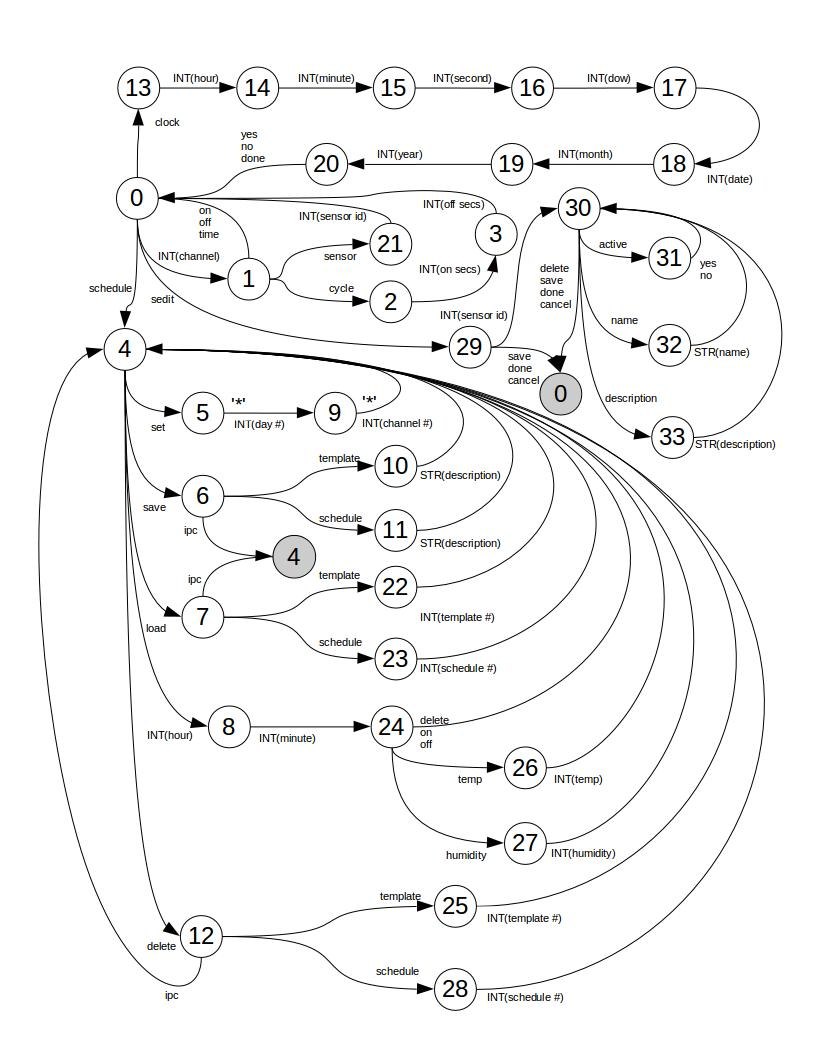
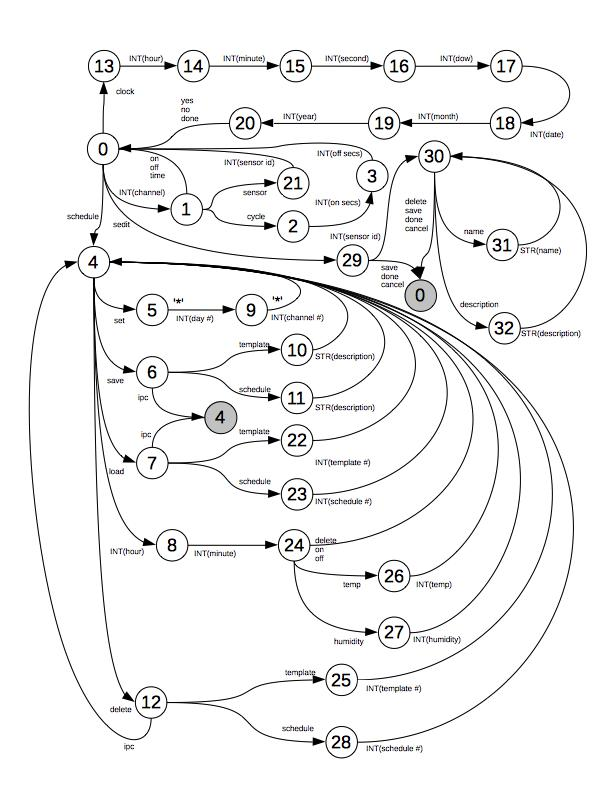
investigating buffer overflow on input strings >30 char

diff --git a/BBB/lib-sources/cmd_fsm.c b/BBB/lib-sources/cmd_fsm.c
@@ -131,10 +131,10 @@ int cmd_new_state[_CMD_TOKENS][_CMD_STATES] = {
 	/* 17  sensor      */  { 0, 21,  2,  3,  4,  5,  6,  7,  8,  9, 10, 11, 12, 13, 14, 15, 16, 17, 18, 19, 20, 21,  0,  0, 24, 25, 26, 27, 28, 29, 30, 31, 32, 33, 34},
 	/* 18  cycle       */  { 0,  2,  2,  3,  4,  5,  6,  7,  8,  9, 10, 11, 12, 13, 14, 15, 16, 17, 18, 19, 20, 21,  0,  0, 24, 25, 26, 27, 28, 29, 30, 31, 32, 33, 34},
 	/* 19  ipc         */  { 0,  1,  2,  3,  4,  5,  4,  4,  8,  9, 10, 11,  4, 13, 14, 15, 16, 17, 18, 19, 20, 21,  0,  0, 24, 25, 26, 27, 28, 29, 30, 31, 32, 33, 34},
-	/* 20  name        */  { 0,  1,  2,  3,  4,  5,  6,  7,  8,  9, 10, 11, 12, 13, 14, 15, 16, 17, 18, 19, 20, 21,  0,  0, 24, 25, 26, 27, 28, 29, 30, 33, 32, 33, 34},
+	/* 20  name        */  { 0,  1,  2,  3,  4,  5,  6,  7,  8,  9, 10, 11, 12, 13, 14, 15, 16, 17, 18, 19, 20, 21,  0,  0, 24, 25, 26, 27, 28, 29, 31, 33, 32, 33, 34},
 	/* 21  save        */  { 0,  1,  2,  3,  6,  5,  4,  5,  8,  9, 10, 11, 12, 13, 14, 15, 16, 17, 18, 19, 20, 21, 22, 23, 24, 25, 26, 27, 28, 29, 30, 31, 32, 33, 34},
 	/* 22  template    */  { 0,  1,  2,  3,  4,  5, 10, 22,  8,  9, 10, 11, 25, 13, 14, 15, 16, 17, 18, 19, 20, 21,  0,  0, 24, 25, 26, 27, 28, 29, 30, 31, 32, 33, 34},
-	/* 23  description */  { 0,  1,  2,  3,  4,  5,  6,  7,  8,  9, 10, 11, 12, 13, 14, 15, 16, 17, 18, 19, 20, 21,  0,  0, 24, 25, 26, 27, 28, 29, 30, 34, 32, 33, 34},
+	/* 23  description */  { 0,  1,  2,  3,  4,  5,  6,  7,  8,  9, 10, 11, 12, 13, 14, 15, 16, 17, 18, 19, 20, 21,  0,  0, 24, 25, 26, 27, 28, 29, 32, 34, 32, 33, 34},
 	/* 24  load        */  { 0,  1,  2,  3,  7,  5,  6,  7,  8,  9, 10, 11, 12, 13, 14, 15, 16, 17, 18, 19, 20, 21,  0,  0, 24, 25, 26, 27, 28, 29, 30, 31, 32, 33, 34},
 	/* 25  set         */  { 0,  1,  2,  3,  5,  5,  6,  7,  8,  9, 10, 11, 12, 13, 14, 15, 16, 17, 18, 19, 20, 21, 22, 23, 24, 25, 26, 27, 28, 29, 30, 31, 32, 33, 34},
 	/* 26  q           */  { 0,  1,  0,  0,  0,  0,  0,  0,  8,  9, 10, 11, 12, 13, 14, 15, 16, 17, 18, 19, 20, 21, 22, 23, 24, 25, 26, 27, 28, 29, 30, 31, 32, 33, 34},
@@ -146,8 +146,8 @@ int cmd_new_state[_CMD_TOKENS][_CMD_STATES] = {
 	/* 32  wsch        */  { 0,  1,  2,  3,  4,  5,  6,  7,  8,  9, 10, 11, 12, 13, 14, 15, 16, 17, 18, 19, 20, 21, 22, 23, 24, 25, 26, 27, 28, 29, 30, 31, 32, 33, 34},
 	/* 33  slib        */  { 0,  1,  2,  3,  4,  5,  6,  7,  8,  9, 10, 11, 12, 13, 14, 15, 16, 17, 18, 19, 20, 21, 22, 23, 24, 25, 26, 27, 28, 29, 30, 31, 32, 33, 34},
 	/* 34  tlib        */  { 0,  1,  2,  3,  4,  5,  6,  7,  8,  9, 10, 11, 12, 13, 14, 15, 16, 17, 18, 19, 20, 21, 22, 23, 24, 25, 26, 27, 28, 29, 30, 31, 32, 33, 34},
-	/* 35  INT         */  { 1,  1,  3,  0,  8,  9,  6, 21, 24,  4, 10, 11, 12, 14, 15, 16, 17, 18, 19, 20,  0,  0,  4,  4, 24,  4,  4,  4, 28, 29, 31, 31, 32, 33, 34},
-	/* 36  STR         */  { 0,  0,  2,  3,  4,  5,  6,  7,  8,  9,  4,  4, 12, 13,  0,  0,  0,  0,  0,  0,  0, 21,  0,  0, 24, 25, 26, 27, 28, 29, 30, 31, 32, 33, 34},
+	/* 35  INT         */  { 1,  1,  3,  0,  8,  9,  6, 21, 24,  4, 10, 11, 12, 14, 15, 16, 17, 18, 19, 20,  0,  0,  4,  4, 24,  4,  4,  4, 28, 30, 31, 31, 32, 33, 34},
+	/* 36  STR         */  { 0,  0,  2,  3,  4,  5,  6,  7,  8,  9,  4,  4, 12, 13,  0,  0,  0,  0,  0,  0,  0, 21,  0,  0, 24, 25, 26, 27, 28, 29, 30, 30, 30, 33, 34},
 	/* 37  OTHER       */  { 0,  1,  2,  3,  4,  5,  6,  7,  8,  9, 10, 11, 12, 13, 14, 15, 16,  0,  0,  0,  0, 21,  0,  0, 24, 25, 26, 27, 28, 29, 30, 31, 32, 33, 34},
 	/* 38  slist       */  { 0,  1,  2,  3,  4,  5,  6,  7,  8,  9, 10, 11, 12, 13, 14, 15, 16, 17, 18, 19, 20, 21, 22, 23, 24, 25, 26, 27, 28, 29, 30, 32, 32, 33, 34}
 
@@ -223,6 +223,10 @@ int c_65(_CMD_FSM_CB *); /* display current sensor values */
 int c_66(_CMD_FSM_CB *); /* display system configuration */
 int c_67(_CMD_FSM_CB *); /* set sensor id prompt */
 int c_68(_CMD_FSM_CB *); /* set up working sensor buffer */
+int c_69(_CMD_FSM_CB *); /* set working sensor name */
+int c_70(_CMD_FSM_CB *); /* set working sensor description */
+
+
 
 
 /* cmd processor action table - initialized with fsm functions */
@@ -249,10 +253,10 @@ CMD_ACTION_PTR cmd_action[_CMD_TOKENS][_CMD_STATES] = {
 	/* 17  sensor      */  { c_7, c_12,  c_7,  c_7,  c_7,  c_7,  c_7,  c_7,  c_7,  c_7,  c_7,  c_7,  c_7,  c_7,  c_7,  c_7,  c_7,  c_7,  c_7,  c_7,  c_7,  c_7,  c_7,  c_7,  c_7,  c_7,  c_7,  c_7,  c_7,  c_7,  c_7,  c_7,  c_7,  c_7,  c_7},
 	/* 18  cycle       */  { c_7, c_13,  c_7,  c_7,  c_7,  c_7,  c_7,  c_7,  c_7,  c_7,  c_7,  c_7,  c_7,  c_7,  c_7,  c_7,  c_7,  c_7,  c_7,  c_7,  c_7,  c_7,  c_7,  c_7,  c_7,  c_7,  c_7,  c_7,  c_7,  c_7,  c_7,  c_7,  c_7,  c_7,  c_7},
 	/* 19  ipc         */  { c_7,  c_7,  c_7,  c_7,  c_7,  c_7, c_25, c_19,  c_7,  c_7,  c_7,  c_7,  c_7,  c_7,  c_7,  c_7,  c_7,  c_7,  c_7,  c_7,  c_7,  c_7,  c_7,  c_7,  c_7,  c_7,  c_7,  c_7,  c_7,  c_7,  c_7,  c_7,  c_7,  c_7,  c_7},
-	/* 20  name        */  { c_7,  c_7,  c_7,  c_7,  c_7,  c_7,  c_7,  c_7,  c_7,  c_7,  c_7,  c_7,  c_7,  c_7,  c_7,  c_7,  c_7,  c_7,  c_7,  c_7,  c_7,  c_7,  c_7,  c_7,  c_7,  c_7,  c_7,  c_7,  c_7,  c_7,  c_7,  c_7,  c_7,  c_7,  c_7},  //
+	/* 20  name        */  { c_7,  c_7,  c_7,  c_7,  c_7,  c_7,  c_7,  c_7,  c_7,  c_7,  c_7,  c_7,  c_7,  c_7,  c_7,  c_7,  c_7,  c_7,  c_7,  c_7,  c_7,  c_7,  c_7,  c_7,  c_7,  c_7,  c_7,  c_7,  c_7,  c_7,  c_0,  c_7,  c_7,  c_7,  c_7},  //
 	/* 21  save        */  { c_7,  c_7,  c_7,  c_7, c_50,  c_7,  c_7,  c_7,  c_7,  c_7,  c_7,  c_7,  c_7,  c_7,  c_7,  c_7,  c_7,  c_7,  c_7,  c_7,  c_7,  c_7,  c_7,  c_7,  c_7,  c_7,  c_7,  c_7,  c_7,  c_7,  c_7,  c_7,  c_7,  c_7,  c_7},
 	/* 22  template    */  { c_7,  c_7,  c_7,  c_7,  c_7,  c_7, c_53, c_63,  c_7,  c_7,  c_7,  c_7, c_63,  c_7,  c_7,  c_7,  c_7,  c_7,  c_7,  c_7,  c_7,  c_7,  c_7,  c_7,  c_7,  c_7,  c_7,  c_7,  c_7,  c_7,  c_7,  c_7,  c_7,  c_7,  c_7},
-	/* 23  description */  { c_7,  c_7,  c_7,  c_7,  c_7,  c_7,  c_7,  c_7,  c_7,  c_7,  c_7,  c_7,  c_7,  c_7,  c_7,  c_7,  c_7,  c_7,  c_7,  c_7,  c_7,  c_7,  c_7,  c_7,  c_7,  c_7,  c_7,  c_7,  c_7,  c_7,  c_7,  c_7,  c_7,  c_7,  c_7},  //
+	/* 23  description */  { c_7,  c_7,  c_7,  c_7,  c_7,  c_7,  c_7,  c_7,  c_7,  c_7,  c_7,  c_7,  c_7,  c_7,  c_7,  c_7,  c_7,  c_7,  c_7,  c_7,  c_7,  c_7,  c_7,  c_7,  c_7,  c_7,  c_7,  c_7,  c_7,  c_7,  c_0,  c_7,  c_7,  c_7,  c_7},  //
 	/* 24  load        */  { c_7,  c_7,  c_7,  c_7, c_50,  c_7,  c_7,  c_7,  c_7,  c_7,  c_7,  c_7,  c_7,  c_7,  c_7,  c_7,  c_7,  c_7,  c_7,  c_7,  c_7,  c_7,  c_7,  c_7,  c_7,  c_7,  c_7,  c_7,  c_7,  c_7,  c_7,  c_7,  c_7,  c_7,  c_7},
 	/* 25  set         */  { c_7,  c_7,  c_1,  c_1, c_59,  c_1,  c_1,  c_1,  c_7,  c_1,  c_1,  c_1,  c_1,  c_7,  c_1,  c_1,  c_1,  c_1,  c_1,  c_1,  c_1,  c_1,  c_7,  c_7,  c_7,  c_7,  c_7,  c_7,  c_7,  c_7,  c_7,  c_7,  c_7,  c_7,  c_7},
 	/* 26  q           */  { c_3,  c_3,  c_3,  c_3,  c_3,  c_3,  c_3,  c_3,  c_3,  c_3,  c_3,  c_3,  c_3,  c_3,  c_3,  c_3,  c_3,  c_3,  c_3,  c_3,  c_3,  c_3,  c_3,  c_3,  c_3,  c_3,  c_3,  c_3,  c_3,  c_3,  c_3,  c_3,  c_3,  c_3,  c_3},
@@ -264,8 +268,8 @@ CMD_ACTION_PTR cmd_action[_CMD_TOKENS][_CMD_STATES] = {
 	/* 32  wsch        */  {c_58, c_58, c_58, c_58, c_58, c_58, c_58, c_58, c_58, c_58, c_58, c_58, c_58, c_58, c_58, c_58, c_58, c_58, c_58, c_58, c_58, c_58, c_58, c_58, c_58, c_58, c_58, c_58, c_58,  c_7,  c_7,  c_7,  c_7,  c_7,  c_7},
 	/* 33  slib        */  {c_56, c_56, c_56, c_56, c_56, c_56, c_56, c_56, c_56, c_56, c_56, c_56, c_56, c_56, c_56, c_56, c_56, c_56, c_56, c_56, c_56, c_56, c_56, c_56, c_56, c_56, c_56, c_56, c_56,  c_7,  c_7,  c_7,  c_7,  c_7,  c_7},
 	/* 34  tlib        */  {c_55, c_55, c_55, c_55, c_55, c_55, c_55, c_55, c_55, c_55, c_55, c_55, c_55, c_55, c_55, c_55, c_55, c_55, c_55, c_55, c_55, c_55, c_55, c_55, c_55, c_55, c_55, c_55, c_55,  c_7,  c_7,  c_7,  c_7,  c_7,  c_7},
-	/* 35  INT         */  { c_4,  c_7, c_16, c_17, c_20, c_30, c_20,  c_7, c_21, c_29,  c_7, c_21,  c_7, c_41, c_42, c_43, c_44, c_45, c_46, c_47,  c_7, c_49, c_61,  c_7,  c_7, c_14, c_27, c_28,  c_7,  c_7, c_68,  c_7,  c_7,  c_7,  c_7},
-	/* 36  STR         */  { c_7,  c_5,  c_7,  c_7,  c_7,  c_7,  c_7,  c_7,  c_7,  c_7, c_51,  c_7,  c_7,  c_7,  c_7,  c_7,  c_7,  c_7,  c_7,  c_7,  c_7,  c_7,  c_7,  c_7,  c_7,  c_7,  c_7,  c_7,  c_7,  c_7,  c_7,  c_7,  c_7,  c_7,  c_7},
+	/* 35  INT         */  { c_4,  c_7, c_16, c_17, c_20, c_30, c_20,  c_7, c_21, c_29,  c_7, c_21,  c_7, c_41, c_42, c_43, c_44, c_45, c_46, c_47,  c_7, c_49, c_61,  c_7,  c_7, c_14, c_27, c_28,  c_7, c_68,  c_7,  c_7,  c_7,  c_7,  c_7},
+	/* 36  STR         */  { c_7,  c_5,  c_7,  c_7,  c_7,  c_7,  c_7,  c_7,  c_7,  c_7, c_51,  c_7,  c_7,  c_7,  c_7,  c_7,  c_7,  c_7,  c_7,  c_7,  c_7,  c_7,  c_7,  c_7,  c_7,  c_7,  c_7,  c_7,  c_7,  c_7,  c_7, c_69, c_70,  c_7,  c_7},
 	/* 37  OTHER       */  { c_8,  c_7,  c_7,  c_7,  c_7,  c_7,  c_7,  c_8,  c_7,  c_7,  c_7,  c_7,  c_7,  c_7,  c_7,  c_7,  c_7,  c_7,  c_7,  c_7,  c_7,  c_7,  c_7,  c_7,  c_7,  c_7,  c_7,  c_7,  c_7,  c_7,  c_7,  c_7,  c_7,  c_7,  c_7},
 	/* 38  slist       */  {c_65, c_65, c_65, c_65, c_65, c_65, c_65, c_65, c_65, c_65, c_65, c_65, c_65, c_65, c_65, c_65, c_65, c_65, c_65, c_65, c_65, c_65, c_65, c_65, c_65, c_65, c_65, c_65, c_65, c_65, c_65, c_65, c_65, c_65, c_65},
 
@@ -1555,13 +1559,56 @@ int c_68(_CMD_FSM_CB * cb)
 	sprintf(buf, "%04d ", cb->w_sen_dat.sensor_id);
 	strcpy(cmd_fsm_cb.prompt_buffer, "editing sensor id ");
 	strcat(cmd_fsm_cb.prompt_buffer, buf);
-	strcat(cmd_fsm_cb.prompt_buffer, "\n\r    name: %s\n\r    description: %s\n\r");
-	strcat(cmd_fsm_cb.prompt_buffer, "enter a command");
+	strcat(cmd_fsm_cb.prompt_buffer, "\n\r    name: ");
+	strcat(cmd_fsm_cb.prompt_buffer, cb->w_sen_dat.name);
+	strcat(cmd_fsm_cb.prompt_buffer,"\n\r    description: ");
+	strcat(cmd_fsm_cb.prompt_buffer, cb->w_sen_dat.description);
+	strcat(cmd_fsm_cb.prompt_buffer, "\n\renter a command");
 
 	return 0;
 }
 
+/* set working sensor name */
+int c_69(_CMD_FSM_CB *cb){
 
+	char 				buf[10];
+
+	strcpy(cb->w_sen_dat.name, cb->token);
+
+		/* build prompt */
+	sprintf(buf, "%04d ", cb->w_sen_dat.sensor_id);
+	strcpy(cmd_fsm_cb.prompt_buffer, "editing sensor id ");
+	strcat(cmd_fsm_cb.prompt_buffer, buf);
+	strcat(cmd_fsm_cb.prompt_buffer, "\n\r    name: ");
+	strcat(cmd_fsm_cb.prompt_buffer, cb->w_sen_dat.name);
+	strcat(cmd_fsm_cb.prompt_buffer,"\n\r    description: ");
+	strcat(cmd_fsm_cb.prompt_buffer, cb->w_sen_dat.description);
+	strcat(cmd_fsm_cb.prompt_buffer, "\n\renter a command");
+
+	return 0;
+}
+
+/* set working sensor description */
+int c_70(_CMD_FSM_CB *cb){
+
+	char 				buf[10];
+
+	printf("token size %i\r\n", strlen(cb->token) );
+
+	strcpy(cb->w_sen_dat.description, cb->token);
+
+		/* build prompt */
+	sprintf(buf, "%04d ", cb->w_sen_dat.sensor_id);
+	strcpy(cmd_fsm_cb.prompt_buffer, "editing sensor id ");
+	strcat(cmd_fsm_cb.prompt_buffer, buf);
+	strcat(cmd_fsm_cb.prompt_buffer, "\n\r    name: ");
+	strcat(cmd_fsm_cb.prompt_buffer, cb->w_sen_dat.name);
+	strcat(cmd_fsm_cb.prompt_buffer,"\n\r    description: ");
+	strcat(cmd_fsm_cb.prompt_buffer, cb->w_sen_dat.description);
+	strcat(cmd_fsm_cb.prompt_buffer, "\n\renter a command");
+
+	return 0;
+}
 
 
 

diff --git a/BBB/lib-sources/smaint.c b/BBB/lib-sources/smaint.c
@@ -52,7 +52,7 @@ int s_load(int id, _CMD_FSM_CB *cb)
 	return id;
 }
 
-int s_sort(_SEN_DAT *f)
+int s_sort(_SEN_DAT f[])
 {
 	_SEN_DAT 		source[_NUMBER_OF_SENSORS];
 	_SEN_DAT 		destination[_NUMBER_OF_SENSORS];
@@ -86,29 +86,30 @@ int s_sort(_SEN_DAT *f)
 	/* copy sorted sensor data to shared memory */
 	ipc_sem_lock(semid, &sb);					// wait for a lock on shared memory
 	for(i=0; i<_NUMBER_OF_SENSORS;i++)
-		*f[i] = destination[i];
+		f[i] = destination[i];
 	ipc_sem_free(semid, &sb);					// free lock on shared memory
 
 	return 0;
 }
 
-int s_save(_SEN_DAT *f[_NUMBER_OF_SENSORS], _CMD_FSM_CB *cb){ 
+int s_save(_CMD_FSM_CB *cb){ 
 
 	_SEN_DAT 			buf[_NUMBER_OF_SENSORS];
+	int 				i;
 
 	/* copy sensor data to working buffer */
 	ipc_sem_lock(semid, &sb);					// wait for a lock on shared memory
 	for(i=0; i<_NUMBER_OF_SENSORS;i++)
-		buf[i] = f->sen_dat[i];
+		buf[i] = cb->ipc_ptr->s_dat[i];
 	ipc_sem_free(semid, &sb);					// free lock on shared memory
 
 	/* check for empty space */
 	for(i=0; i<_NUMBER_OF_SENSORS;i++)
 		if(buf[i].active == _FALSE){
-			buf[i].active = _TRUE
-			buf[i].sensor_id = cb->w_sen_dat.sensor_d;
-			buf[i].name = cb->w_sen_dat.name;
-			buf[i].description =  cb->w_sen_dat.description;
+			buf[i].active = _TRUE;
+			buf[i].sensor_id = cb->w_sen_dat.sensor_id;
+			strcpy(buf[i].name, cb->w_sen_dat.name);
+			strcpy(buf[i].description, cb->w_sen_dat.description);
 		}
 		else{
 			return 1;
@@ -119,7 +120,7 @@ int s_save(_SEN_DAT *f[_NUMBER_OF_SENSORS], _CMD_FSM_CB *cb){
 	/* copy sensor data to shared memory */
 	ipc_sem_lock(semid, &sb);					// wait for a lock on shared memory
 	for(i=0; i<_NUMBER_OF_SENSORS;i++)
-		*f[i] = buf[i];
+		cb->ipc_ptr->s_dat[i] = buf[i];
 	ipc_sem_free(semid, &sb);					// free lock on shared memory
 
 	return 0;

diff --git a/BBB/lib-sources/char_fsm.c b/BBB/lib-sources/char_fsm.c
@@ -23,7 +23,7 @@ char input_buffer[_INPUT_BUFFER_SIZE], *input_buffer_ptr;
 /***************************** globals ******************************/
 TQ *head, *tail;
 #if defined (_ATRACE) || defined (_FTRACE)
-char			trace_buf[128];
+char			trace_buf[_TRACE_BUFFER_SIZE];
 #endif
 /***************************** externals ************************/
 extern int			trace_flag;
@@ -112,7 +112,7 @@ TQ *process_buffer(void) {
 			start_char = input_buffer_ptr;
 			start_char++;
 #if defined (_ATRACE) || defined (_FTRACE)
-			sprintf(trace_buf, "pusn token <%s>", tail->tptr);
+			sprintf(trace_buf, "push token <%s>", tail->tptr);
 			trace(_TRACE_FILE_NAME, "process_buffer", char_state, tb, trace_buf, trace_flag);
 #endif
 		}

diff --git a/BBB/include/shared.h b/BBB/include/shared.h
@@ -62,15 +62,16 @@
 
 /* buffers */
 #define _INPUT_BUFFER_SIZE		128
-#define _TOKEN_BUFFER_SIZE		60
+#define _TOKEN_BUFFER_SIZE		128
 #define _PROMPT_BUFFER_SIZE		500
-#define _CMD_BUFFER_DEPTH 		10 		
+#define _CMD_BUFFER_DEPTH 		10 
+#define _TRACE_BUFFER_SIZE 		300		
 
 /* sensor parameteres */
 #define _NUMBER_OF_SENSORS		10
 #define _MAX_SENSORS			25
 #define _SNAME_SIZE 			10
-#define _SDESCRIPTION			50
+#define _SDESCRIPTION			_MAX_TOKEN_SIZE
 
 /* channel parameters */
 #define _NUMBER_OF_CHANNELS 	16

diff --git a/BBB/include/smaint.h b/BBB/include/smaint.h
@@ -3,7 +3,7 @@
 
 int s_load(int id, _CMD_FSM_CB *cb);
 int s_sort(_SEN_DAT *f);
-int s_save(_SEN_DAT *f[_NUMBER_OF_SENSORS], _CMD_FSM_CB *cb);
+int s_save(_CMD_FSM_CB *cb);
 
 
 
